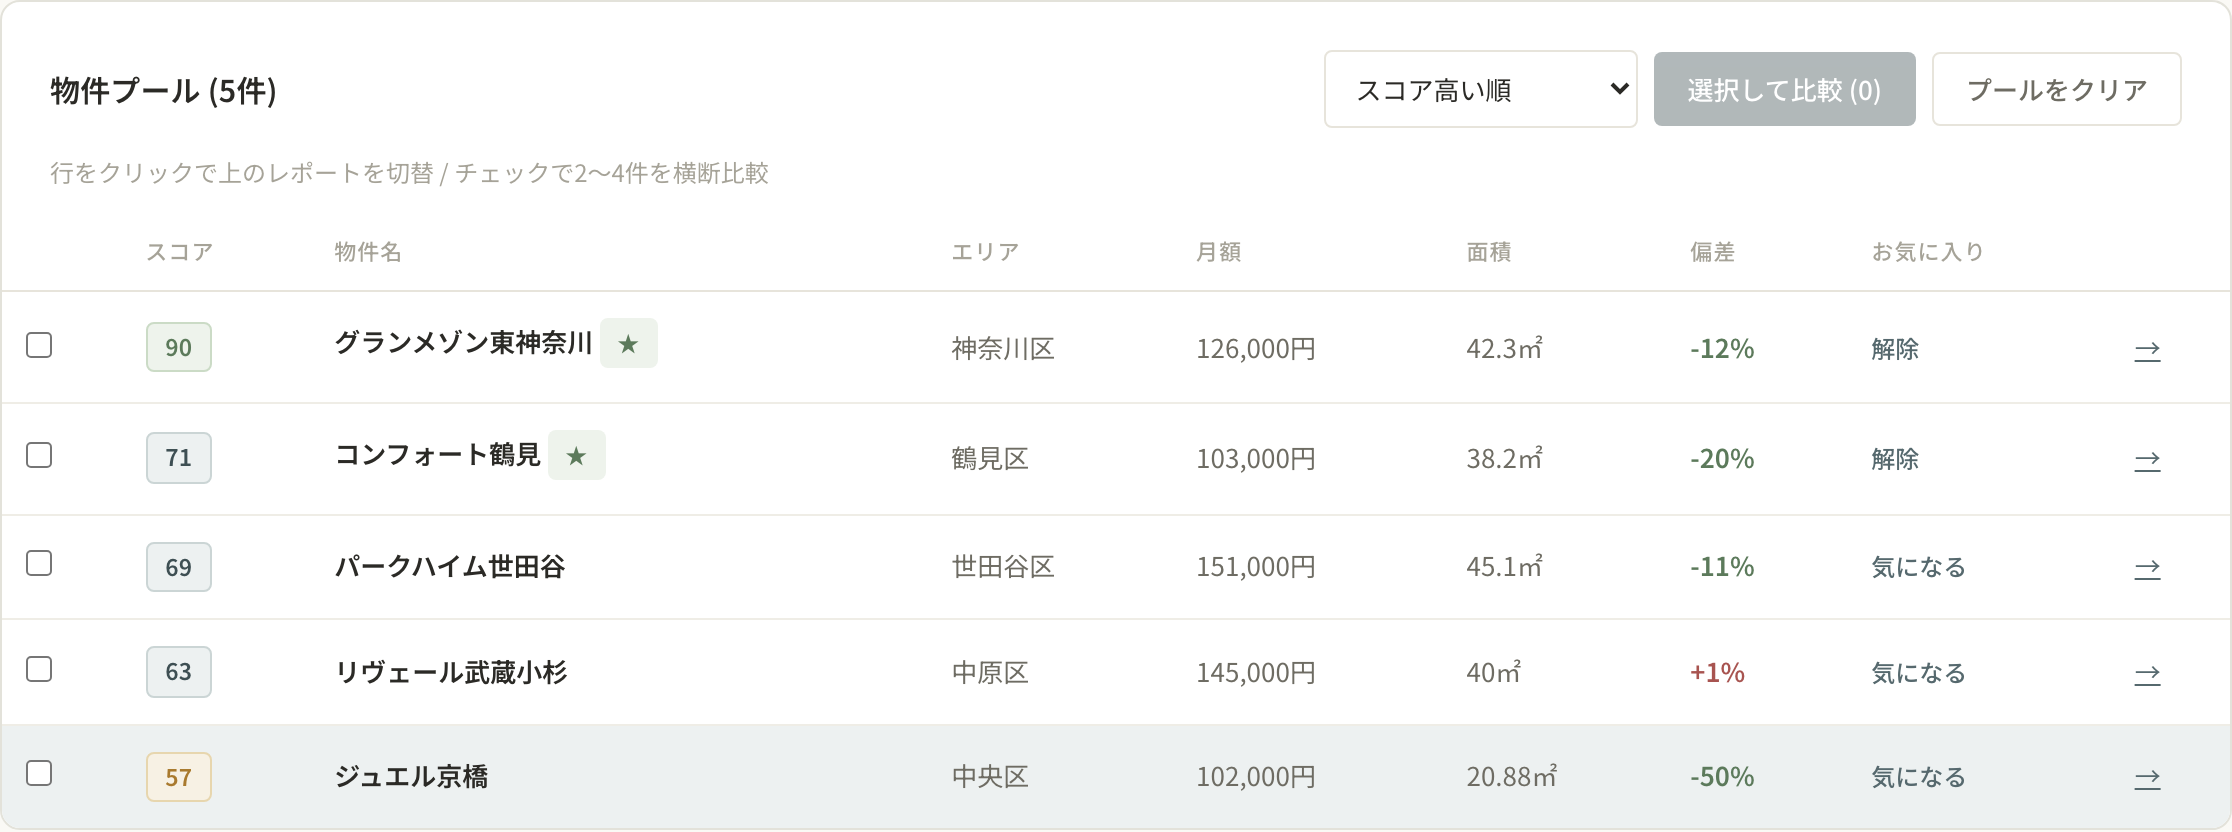
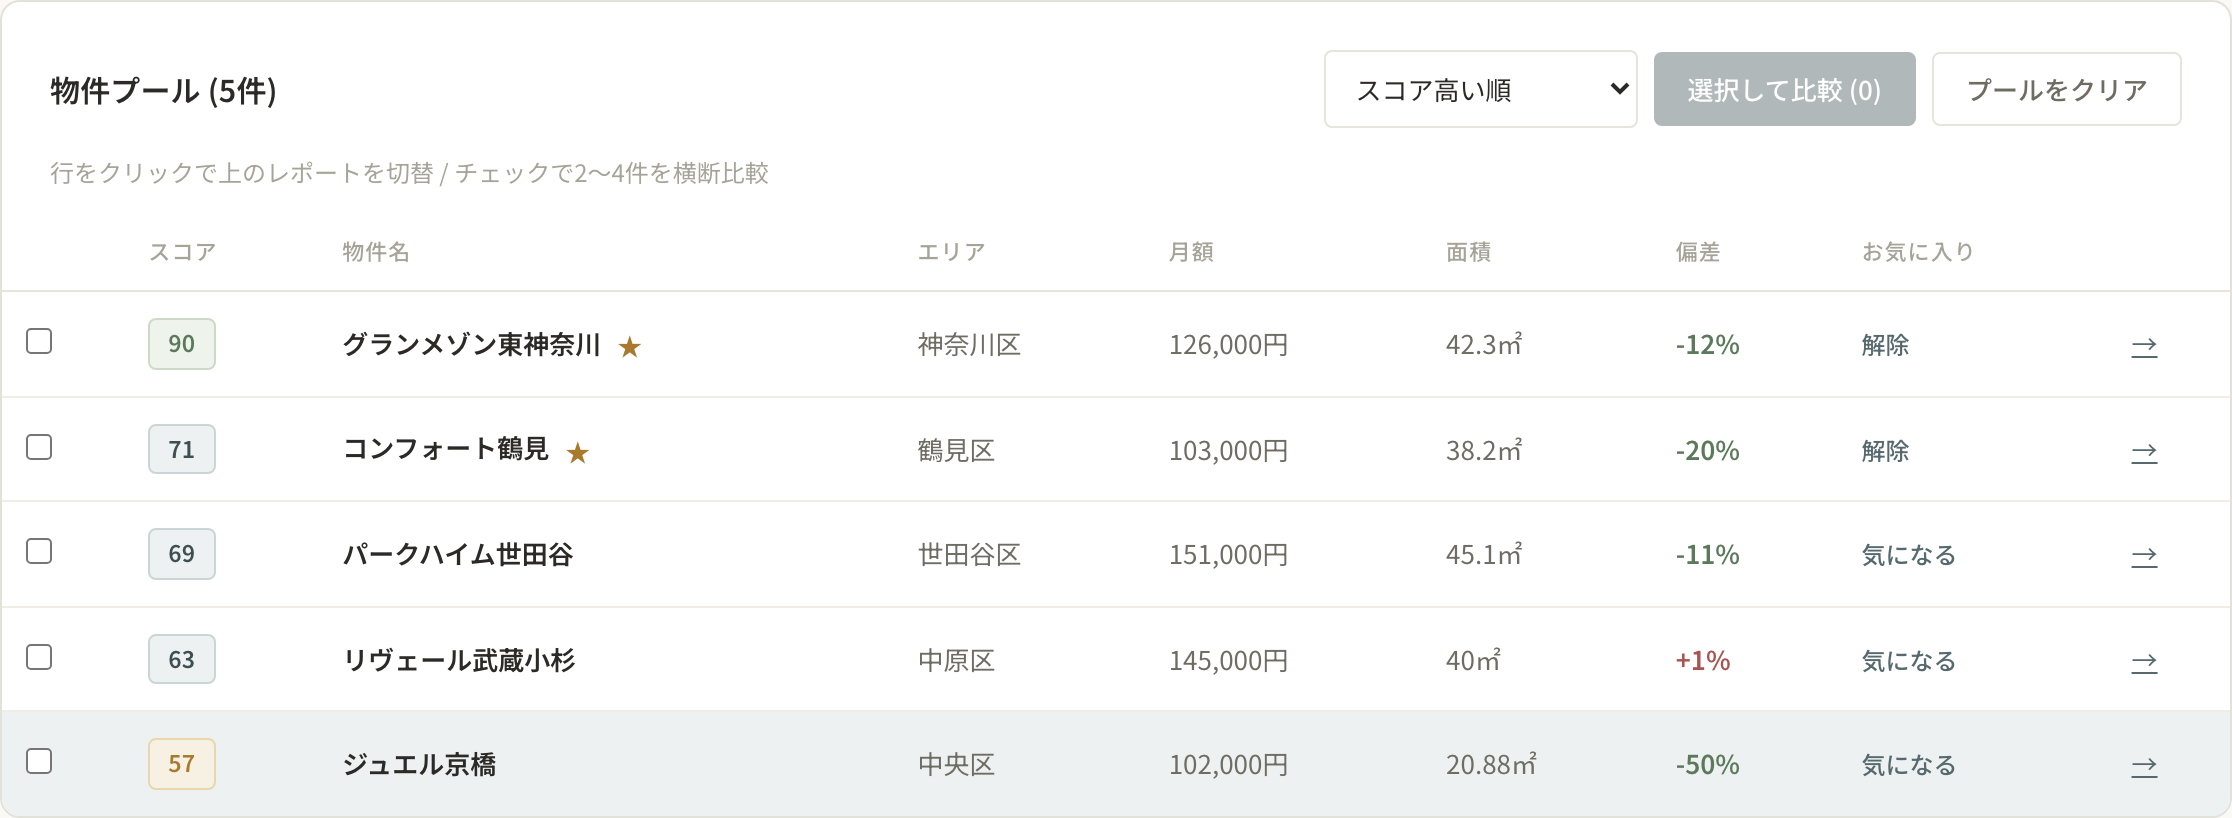
design: stronger warning/favorite emphasis + firmer amenity chips
- 災害「高」now a solid 弁柄-red badge with white text (was a pale outline) —
  high flood/landslide risk reads as a warning at a glance
- Favorite ★ recoloured to 山吹 amber and enlarged in the pool table (was pale
  sage), so saved listings stand out
- Present amenity chips filled a touch firmer (deeper 苔緑), absent ones now
  dashed — wider on/off contrast
- README pool/report screenshots refreshed; 76 tests

diff --git a/static/css/style.css b/static/css/style.css
@@ -295,16 +295,34 @@ body {
   transition: all var(--transition);
 }
 .chip.on {
-  background: var(--good-bg);
-  color: var(--good);
-  border-color: var(--good-border);
+  background: #E4EEDE;          /* 苔緑 — 少し実め */
+  color: #46603F;
+  border-color: #BED2B3;
   font-weight: 600;
 }
 .chip.off {
   background: transparent;
   color: var(--text-muted);
   border-color: var(--border);
+  border-style: dashed;
   font-weight: 400;
+}
+
+/* 災害「高」— 実心の赤で警告 */
+.tag.hazard-high {
+  background: var(--bad);
+  color: #fff;
+  border: 1px solid var(--bad);
+  font-weight: 600;
+  letter-spacing: 0.02em;
+}
+
+/* お気に入り★ — 山吹で目立たせる */
+.fav-star {
+  color: var(--warn);
+  font-size: 12.5px;
+  margin-left: 5px;
+  vertical-align: middle;
 }
 
 /* ===== 平台来源 badge — accent by source (washoku-tinted) ===== */

diff --git a/static/js/my-list.js b/static/js/my-list.js
@@ -547,7 +547,7 @@ function poolHtml(pool, d) {
     const devHtml = dev == null ? '-' :
       `<span style="color:${dev > 0 ? 'var(--bad)' : 'var(--good)'};font-weight:600;">${dev > 0 ? '+' : ''}${Math.round(dev * 100)}%</span>`;
     const sel = l.id === state.selectedId ? ' style="background:var(--accent-bg,#EFF4FF);"' : '';
-    const favMark = l.fav_status ? `<span class="tag good" title="${l.fav_status}">★</span>` : '';
+    const favMark = l.fav_status ? `<span class="fav-star" title="${l.fav_status}">★</span>` : '';
     return `<tr data-id="${l.id}" class="pool-row"${sel}>
       <td><input type="checkbox" class="pool-check" data-id="${l.id}"></td>
       <td><span class="${badgeCls(l.total_score)}">${l.total_score ?? '-'}</span></td>

diff --git a/static/js/dashboard.js b/static/js/dashboard.js
@@ -133,7 +133,7 @@ function renderTable() {
     <td>${scoreBar(r.safety_score)}</td>
     <td>${scoreBar(r.convenience_score)}</td>
     <td>${scoreBar(r.environment_score)}</td>
-    <td>${r.hazard_level ? `<span class="tag ${r.hazard_level === '高' ? 'bad' : r.hazard_level === '中' ? 'warn' : 'good'}" title="洪水・土砂 (出典: 不動産情報ライブラリ, 区役所周辺の参考値)">${r.hazard_level}</span>` : '-'}</td>
+    <td>${r.hazard_level ? `<span class="tag ${r.hazard_level === '高' ? 'hazard-high' : r.hazard_level === '中' ? 'warn' : 'good'}" title="洪水・土砂 (出典: 不動産情報ライブラリ, 区役所周辺の参考値)">${r.hazard_level}</span>` : '-'}</td>
   </tr>`).join('');
 }
 
